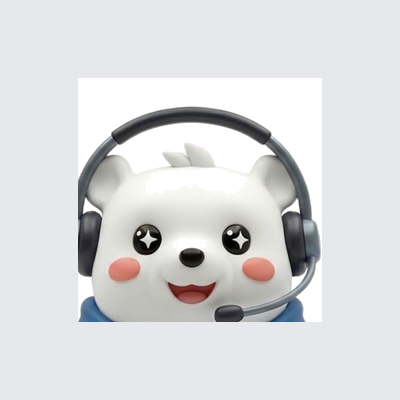
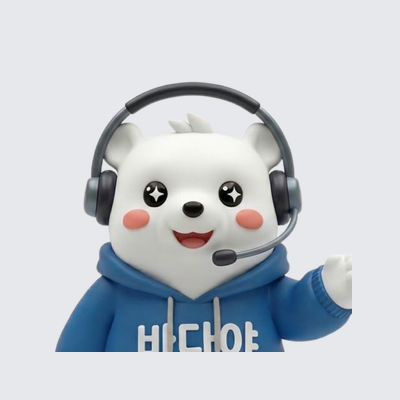
바다야: 이벤트 CTA를 정리하고 카톡 아바타 얼굴 크롭을 고친다.
투명 곰돌이 원본 기준으로 턱·가슴까지 보이게 아바타를 다시 자르고, 플로팅 버튼과 중복되는 이벤트 버튼은 제거한다.

diff --git a/sites/badaya/src/app/globals.css b/sites/badaya/src/app/globals.css
@@ -1096,8 +1096,6 @@ a { color: inherit; }
   object-position: center;
   pointer-events: none;
 }
-.btn--event { width: 82.2%; height: 50px; margin: 18px auto 0; border-radius: 15px; font-size: 16px; }
-
 .floating-cta {
   position: fixed;
   right: max(16px, env(safe-area-inset-right));
@@ -1377,7 +1375,6 @@ a { color: inherit; }
       inset 0 0 32px 20px rgba(109, 178, 246, 0.5),
       inset 0 0 64px 40px rgba(109, 178, 246, 0.32);
   }
-  .btn--event { width: 420px; height: 56px; margin-top: 24px; font-size: 18px; }
   .floating-cta {
     right: 28px;
     bottom: 32px;
@@ -1661,7 +1658,6 @@ a { color: inherit; }
   .event__inner { max-width: 860px; }
   .event__desc { margin-top: 24px; font-size: 20px; line-height: 1.55; }
   .event__visual { width: 440px; max-width: 440px; margin-top: 40px; border-radius: 40px; }
-  .btn--event { width: 400px; height: 60px; font-size: 20px; }
   .floating-cta {
     right: 36px;
     bottom: 40px;

diff --git a/sites/badaya/src/components/sections/LaunchEvent.tsx b/sites/badaya/src/components/sections/LaunchEvent.tsx
@@ -1,4 +1,3 @@
-import AppDownloadButton from "@/components/AppDownloadButton";
 import ChatTitle from "@/components/ChatTitle";
 import EventVisual from "@/components/EventVisual";
 
@@ -12,7 +11,6 @@ export default function LaunchEvent() {
           떠먹여 드릴게요!
         </ChatTitle>
         <EventVisual />
-        <AppDownloadButton className="btn--event">지원금 빠르게 찾아보기</AppDownloadButton>
       </div>
     </section>
   );

diff --git a/sites/badaya/src/components/ChatTitle.tsx b/sites/badaya/src/components/ChatTitle.tsx
@@ -26,8 +26,8 @@ export default function ChatTitle({
         className="chat-msg__avatar"
         src="/images/badaya-ai-face.png"
         alt="바다야"
-        width={360}
-        height={360}
+        width={400}
+        height={400}
       />
       <Tag className="chat-msg__bubble">{children}</Tag>
     </div>
